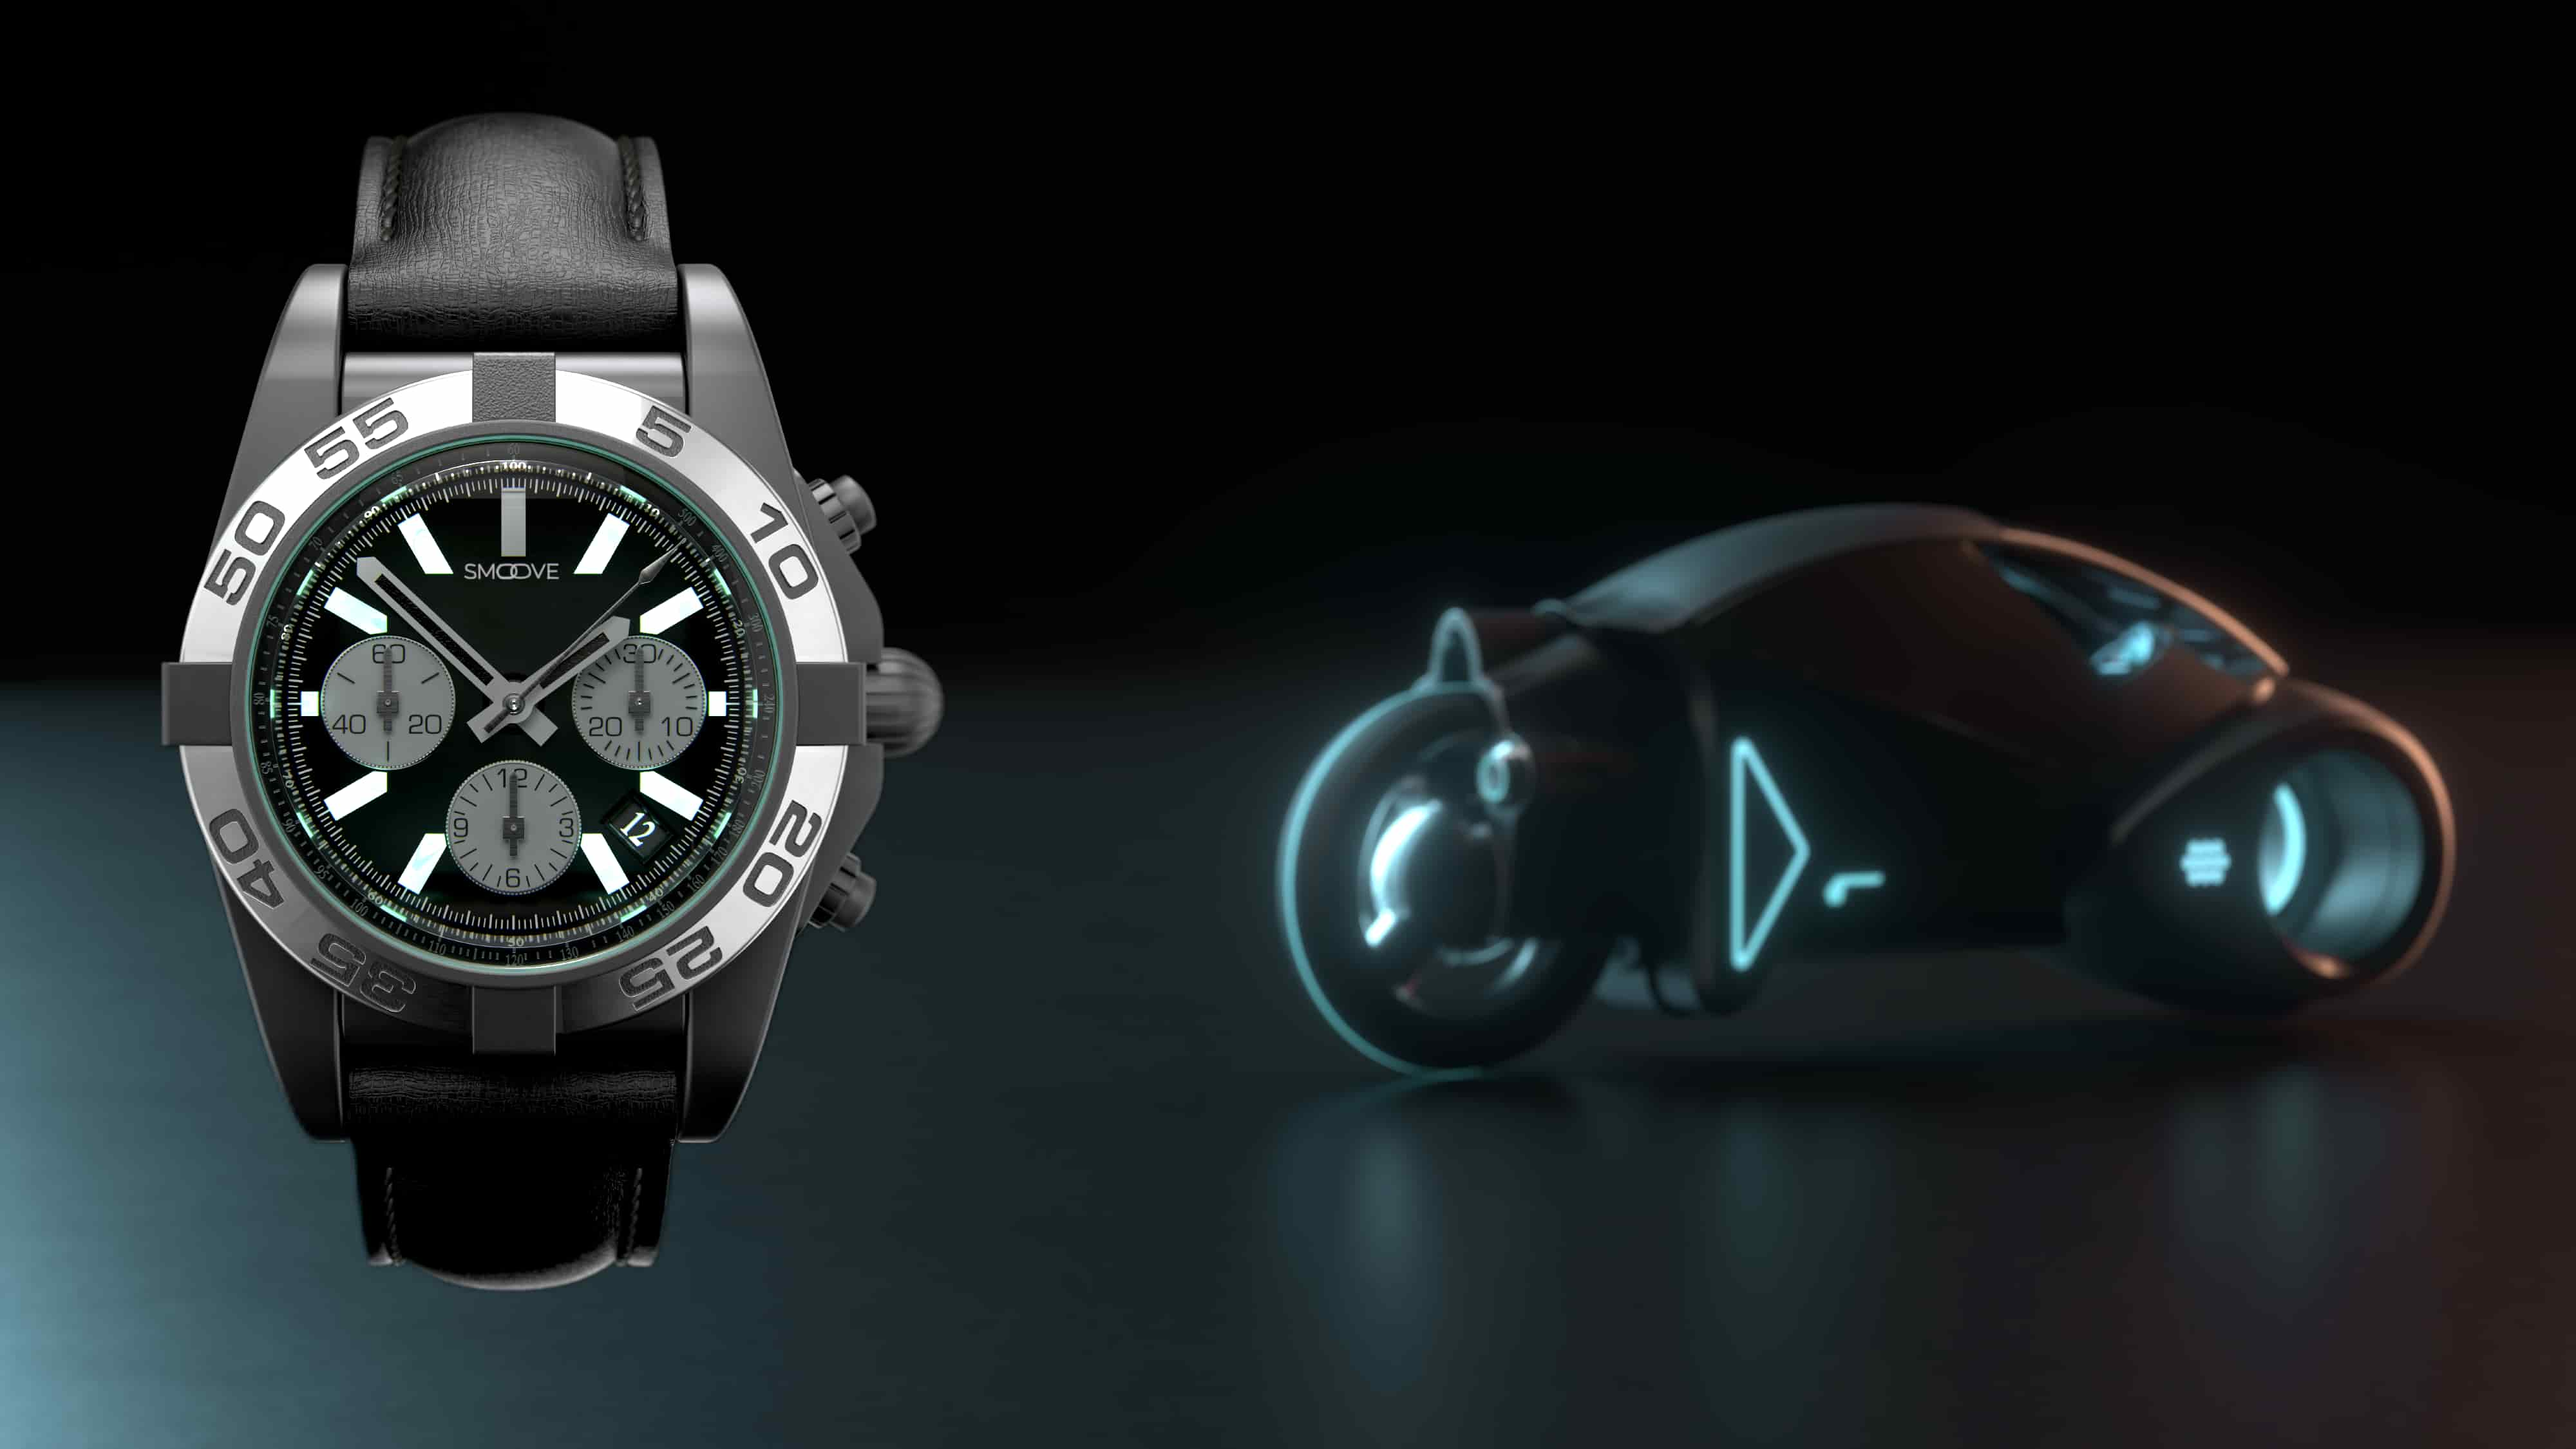
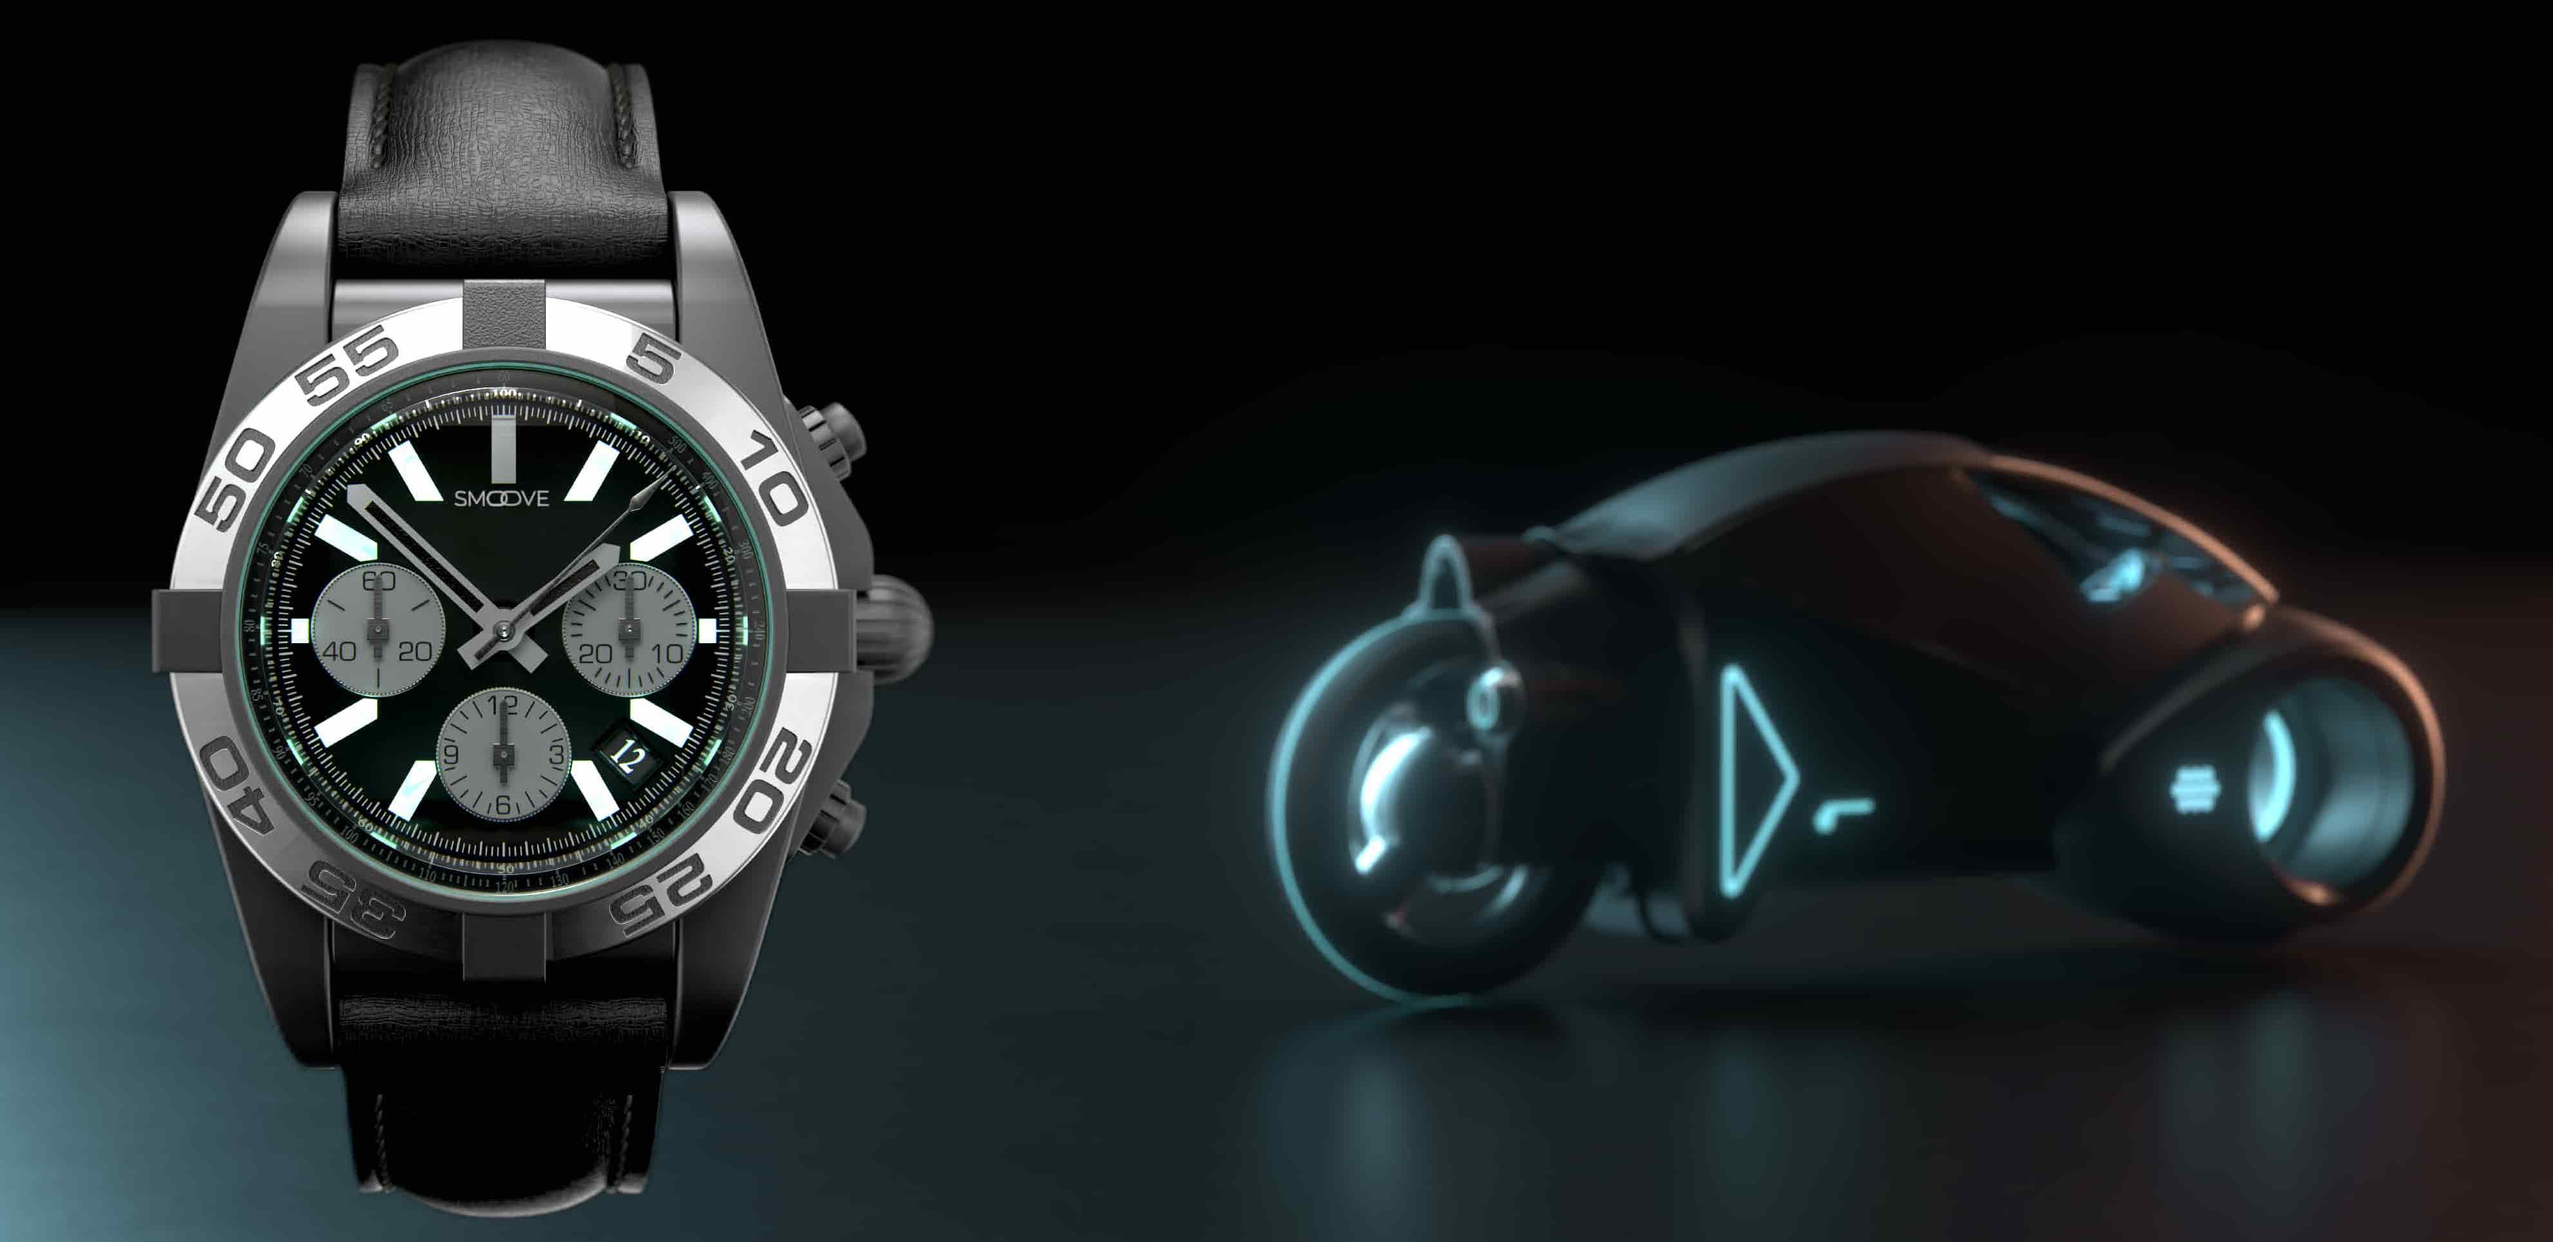
added merch header

diff --git a/index.html b/index.html
@@ -314,6 +314,18 @@
         </div>
       </div>
     </section>
+    <section class="merch-header">
+      <div class="merch-image">
+        <h3>
+          Find the perfect
+          <span style="color: var(--color-almost-green)">
+            accessories <br
+          /></span>
+          to match your new smoove
+        </h3>
+        <img src="./images/merch-header.jpg" alt="a watch and the smoove-car" />
+      </div>
+    </section>
     <section class="merch" id="merch">
       <div class="merchwrap">
         <div class="card" id="card-01">

diff --git a/styles/style.css b/styles/style.css
@@ -14,7 +14,6 @@ body {
 .hero-image img {
   width: 100%;
   max-width: 100%;
-  height: 815px;
 }
 
 .hero-heading {
@@ -306,6 +305,23 @@ body {
 
 /* --- Merch section--- */
 
+.merch-header .merch-image {
+  width: 1440px;
+}
+
+.merch-header img {
+  max-width: 100%;
+  max-height: 100%;
+}
+
+.merch-header h3 {
+  font-size: 2.4rem;
+  color: white;
+  position: absolute;
+  right: 30px;
+  letter-spacing: 1px;
+  padding: 90px;
+}
 .merch {
   background-color: var(--color-black);
   width: 100%;
